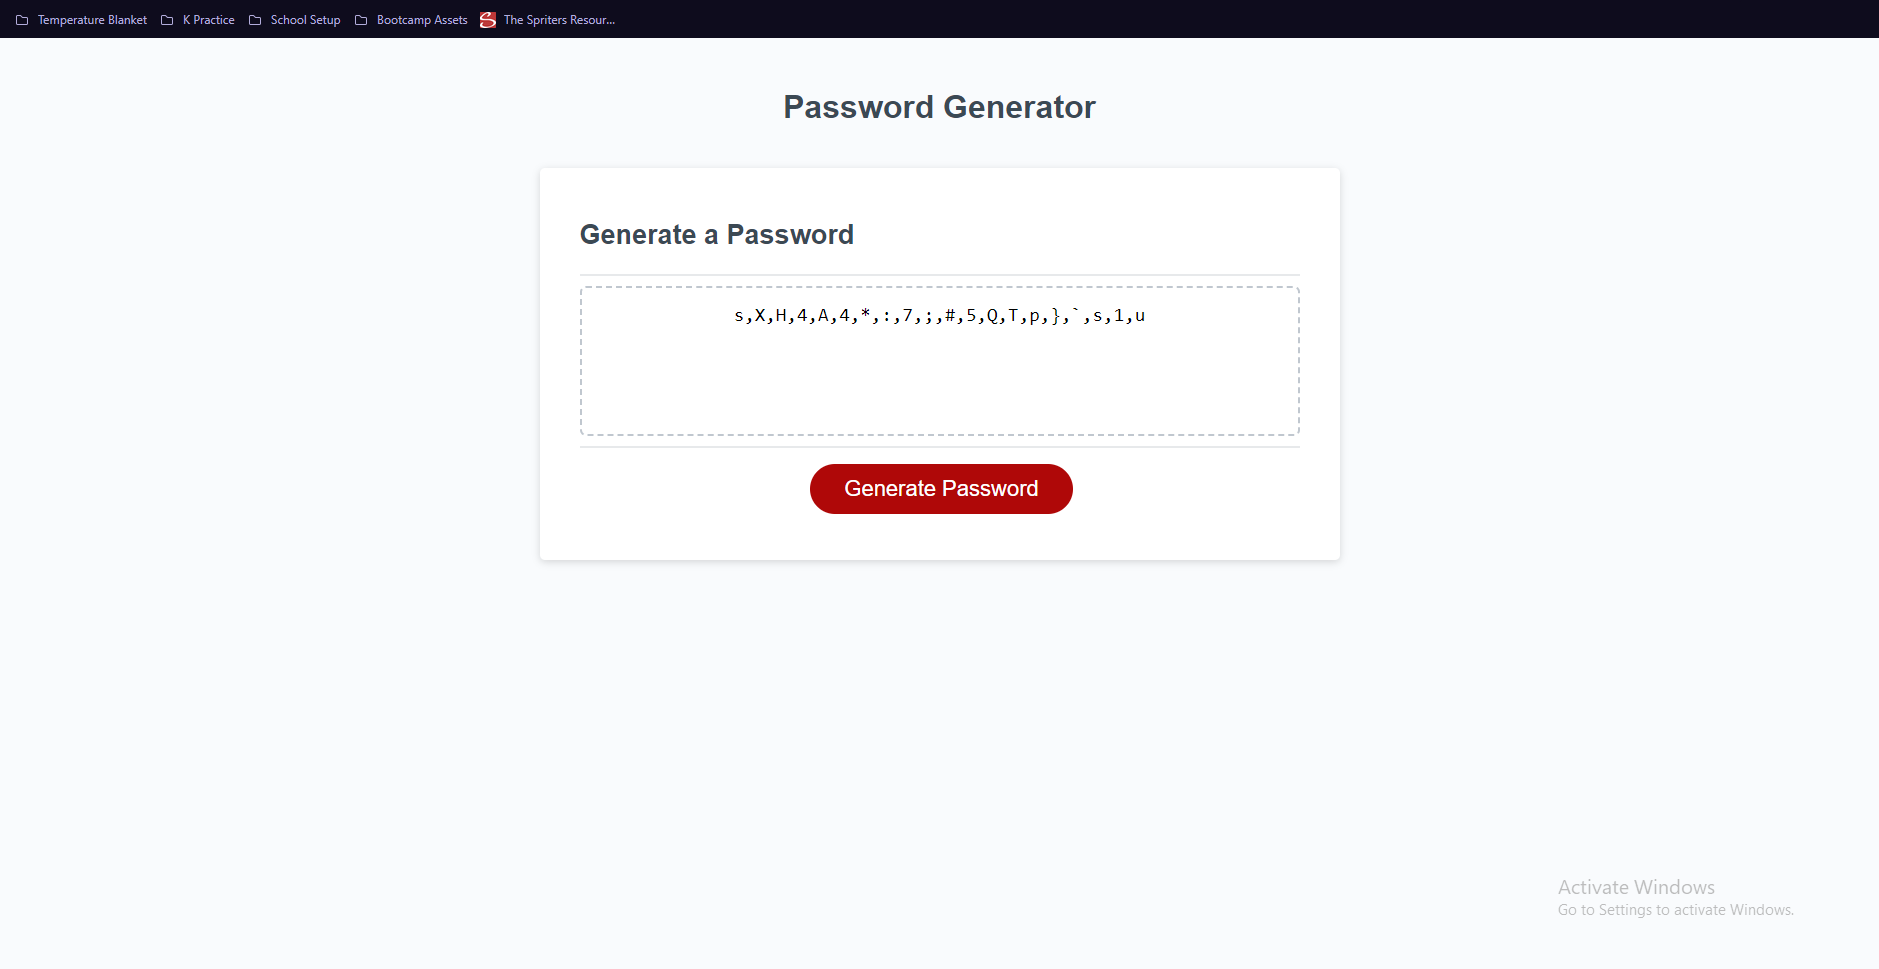
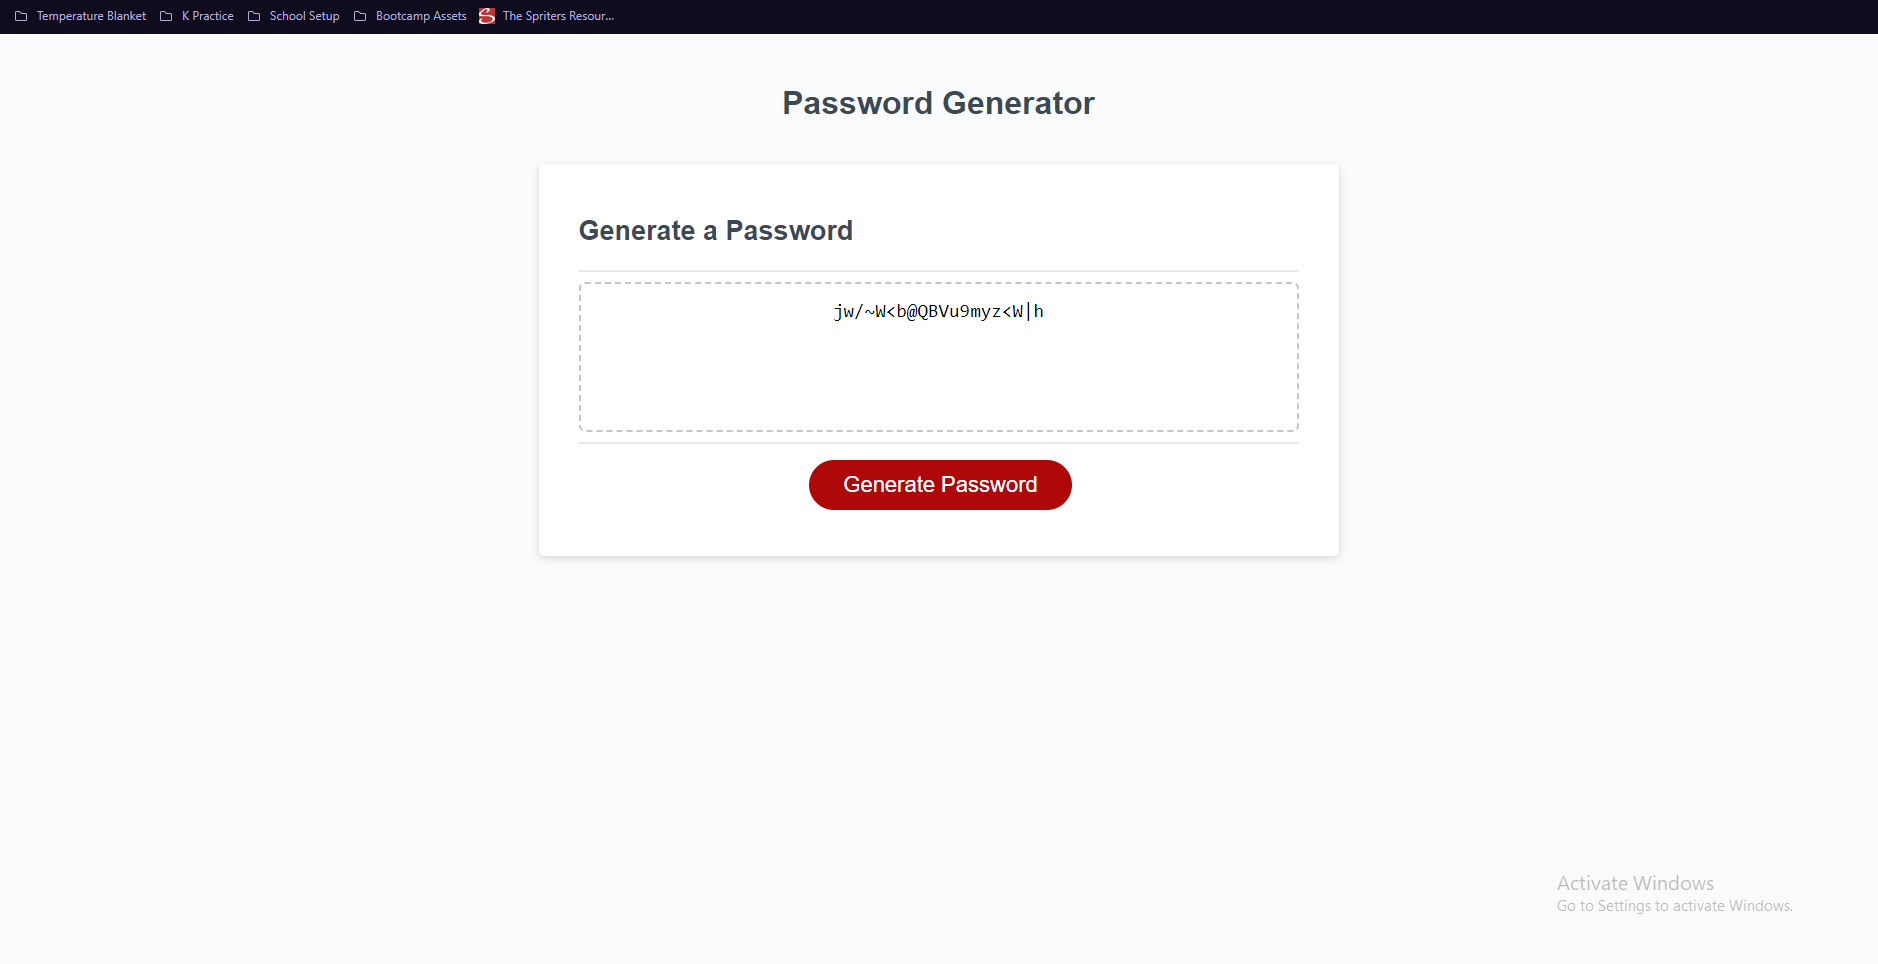
Small refactor on JS code to make output into a string and updated image

diff --git a/assets/js/script.js b/assets/js/script.js
@@ -1,11 +1,12 @@
 // Assignment Code
 var generateBtn = document.querySelector("#generate");
-var passwordText = document.querySelector("#password");
+
 
 // Write password to the #password input
 function writePassword(password) {
-//   var password = generatePassword();
-  passwordText.value = password;
+  var passwordText = document.querySelector("#password");
+
+  passwordText.value = password.join('');
 }
 
 function generatePassword(passwordCriteriaObj) {
